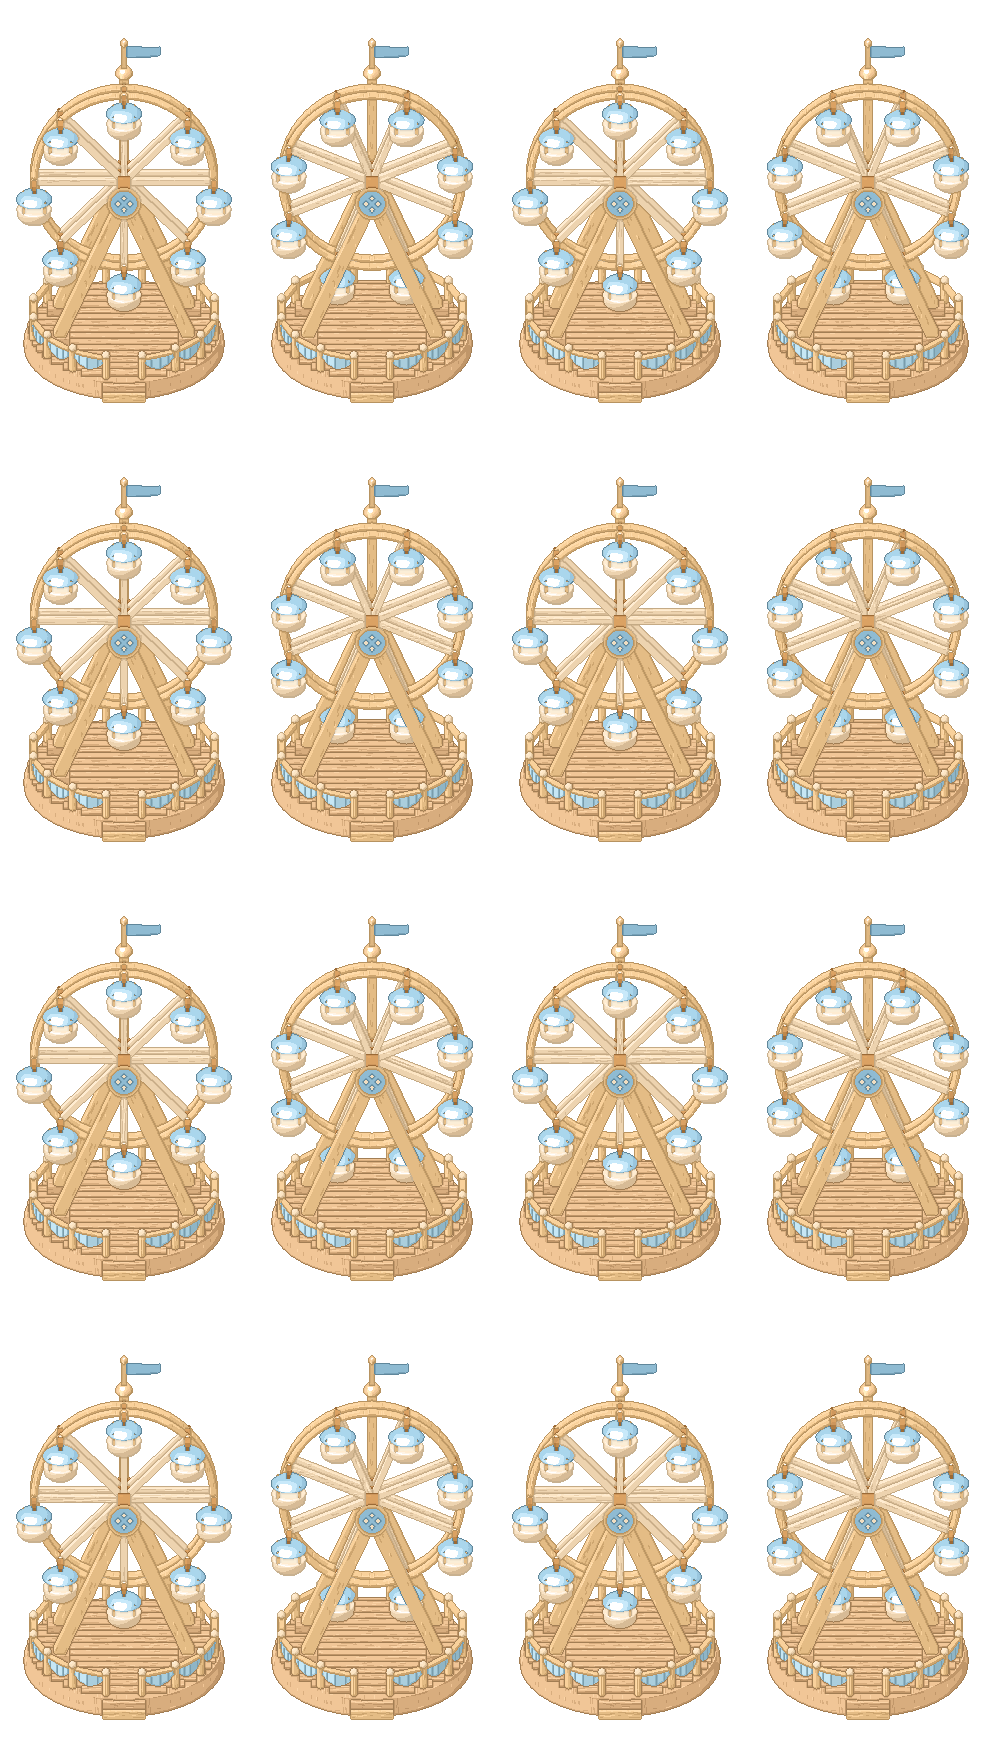
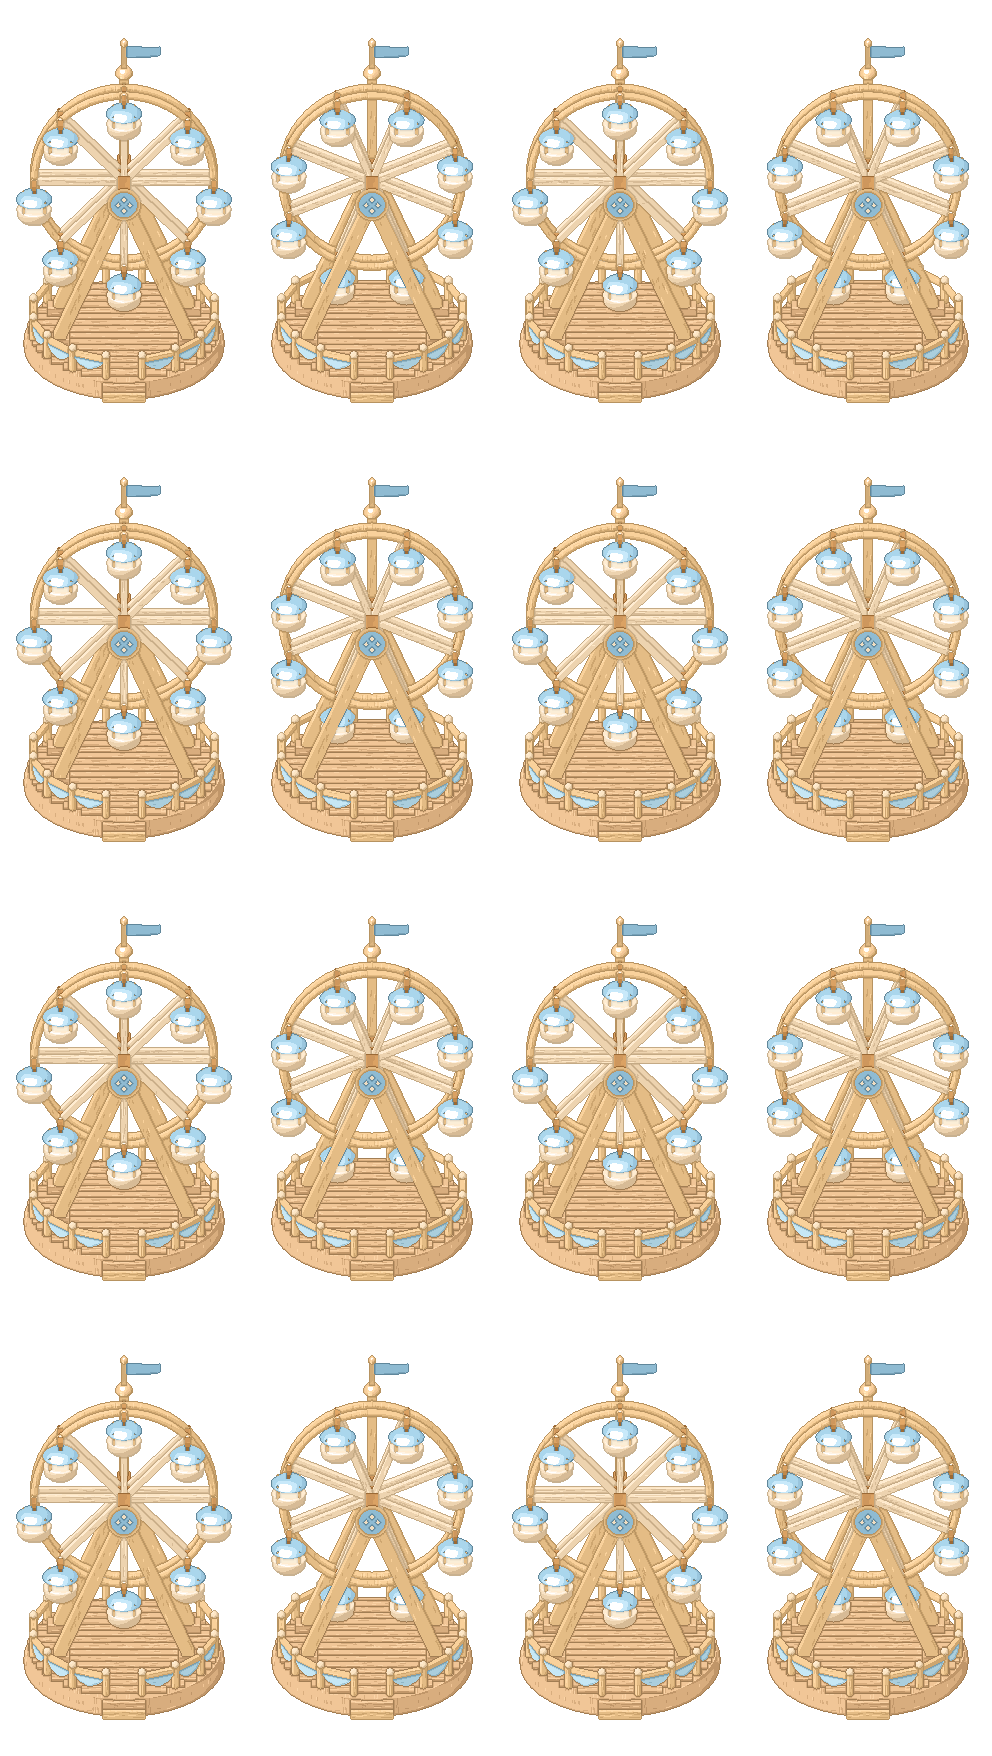
遊具の一枚の面と吊り部品のつなぎ方を直す

diff --git a/tools/art/handoff3d/rides.py b/tools/art/handoff3d/rides.py
@@ -60,12 +60,7 @@ def flag(m, x, y, z, broken):
          (x+u, y+.041*sin(u*10), z+.29+h+.085*u))
         for u, h in wave
     ]
-    # 一枚の布として輪郭と布目の単位を共有し、頂点で面の向きをまぜる。
-    m.material(BLUE, True, "cloth")
-    m.sc.part()
-    color = m.color(BLUE)
-    for (upper, lower), (next_upper, next_lower) in zip(edges, edges[1:]):
-        m.sc.quad(upper, next_upper, next_lower, lower, color)
+    m.strip(edges, BLUE, surface="cloth")
 
 
 def deck(m, radius, broken):
@@ -98,14 +93,14 @@ def deck(m, radius, broken):
         a1 = polar(radius-.048,b,z)
         m.rod(a0,a1,.034,HONEY,surface="wood")
         if sin((a+b)/2) > .08:
-            for j in range(4):
-                u,v = j/4,(j+1)/4
-                def edge(t, lower):
-                    p = a+(b-a)*t
-                    h = z if not lower else z-.025-.16*sin(t*tau/2)
-                    return polar(radius-.021,p,h)
-                board(m,(edge(u,False),edge(v,False),edge(v,True),edge(u,True)),
-                      BLUE_LIGHT,"cloth")
+            edges = []
+            for j in range(5):
+                t = j/4
+                angle = a+(b-a)*t
+                top = tuple((1-t)*u+t*v for u,v in zip(a0,a1))
+                bottom = polar(radius-.021,angle,z-.025-.16*sin(t*tau/2))
+                edges.append((top,bottom))
+            m.strip(edges,BLUE_LIGHT,surface="cloth")
 
 
 def sprig(m, origin, tangent, size):
@@ -136,30 +131,45 @@ def lantern(m, x, y, z):
 
 def canopy(m, radius, eaves, peak, lean, broken):
     """しまの屋根と、持ち送りの付いた波形の幕板。"""
-    for i in range(12):
+    panels = [i for i in range(12) if not broken or i not in (1,2)]
+    m.material(BLUE, True, "cloth")
+    m.sc.part()
+    for i in panels:
         a,b = i*tau/12,(i+1)*tau/12
-        if broken and i in (1,2):
-            continue
         edge = [polar(radius,t,eaves) for t in (a,b)]
-        top = (lean,0,peak)
         mid = [polar(radius*.48,t,peak-.25*(peak-eaves)) for t in (a,b)]
-        color = BLUE if i%2 else LINEN
-        m.part(color,surface="cloth")
-        m.sc.tri(top,*mid,m.color(color))
-        m.sc.quad(mid[0],mid[1],edge[1],edge[0],m.color(color))
+        paint = m.color(BLUE if i%2 else LINEN)
+        m.sc.tri((lean,0,peak),*mid,paint)
+        m.sc.quad(mid[0],edge[0],edge[1],mid[1],paint)
+    for i in panels:
+        a,b = i*tau/12,(i+1)*tau/12
         profile = ((0,.055),(.25,.118),(.5,.164),(.75,.118),(1,.055))
-        for (u,h),(v,k) in zip(profile,profile[1:]):
-            p,q = a+(b-a)*u,a+(b-a)*v
-            upper = polar(radius+.007,p,eaves+h),polar(radius+.007,q,eaves+k)
-            lower = polar(radius+.007,p,eaves-.17),polar(radius+.007,q,eaves-.17)
-            board(m,(*upper,*reversed(lower)),IVORY)
-            m.rod(*upper,.022,HONEY)
-            m.rod(*lower,.019,HONEY)
+        edges = [(polar(radius+.007,a+(b-a)*u,eaves+h),
+                  polar(radius+.007,a+(b-a)*u,eaves-.17))
+                 for u,h in profile]
+        m.strip(edges,IVORY)
+        upper, lower = zip(*edges)
+        m.bent_tube(upper,.022,HONEY,(0,0,1))
+        m.bent_tube(lower,.019,HONEY,(0,0,1))
         x,y,z = polar(radius+.009,a,eaves-.174)
         m.rod((x,y,z),(x,y,eaves+.074),.034,HONEY,surface="wood")
         bead(m,(x,y,eaves+.068),.043,LINEN)
         t=(a+b)/2
         sprig(m,polar(radius+.013,t,eaves-.114),(-sin(t),cos(t)),.25)
+
+
+def canopy_support(m, radius, height, center, broken):
+    """柱の上から腕木をのばし、吊り部品の輪を受ける。"""
+    angles = [i*tau/36 for i in (range(6,36) if broken else range(36))]
+    ring = [(center+x,y,z) for x,y,z in
+            (polar(radius,a,height) for a in angles)]
+    m.bent_tube(ring,.042,HONEY,(0,0,1),surface="wood",closed=not broken)
+    for i in range(6):
+        if broken and i == 1:
+            continue
+        x,y,z = polar(radius,i*tau/6,height)
+        m.rod((0,0,height+.06),(center+x,y,z),.039,OAK,surface="wood")
+    m.rod((0,0,height),(center,0,height+.25),.048,HONEY,surface="wood")
 
 
 def carousel(m, phase, broken, seats):
@@ -173,9 +183,14 @@ def carousel(m, phase, broken, seats):
         q = polar(.266,a,2.13)
         m.rod(p,q,.026,HONEY,surface="wood")
         sprig(m,polar(.274,a,1.15),(-sin(a),cos(a)),.32)
+    canopy_support(m,.94,2.10,0,False)
+    for i in range(6):
+        a = i*tau/6
+        m.rod(polar(.93,a,2.10),polar(1.30,a,2.078),.032,HONEY,surface="wood")
     canopy(m,1.31,2.11,2.97,lean,broken)
     flag(m,lean,0,2.97,broken)
     for a in (tau*.07,tau*.43):
+        m.rod(polar(1.31,a,1.962),polar(1.205,a,1.94),.023,HONEY)
         lantern(m,*polar(1.205,a,1.94))
     for i in range(3):
         a=phase+i*tau/3
@@ -209,28 +224,39 @@ def carousel(m, phase, broken, seats):
 
 def cafe_arch(m,broken):
     """奥の門形の枠。看板と小旗は水平線に沿って吊るす。"""
-    y=-.65
-    r=.97
+    y=-.72
+    r=1.04
     for side in (-1,1):
         x=r*side
         tip=(x-.07 if broken and side==1 else x,y,1.85)
         m.rod((x,y,.29),tip,.066,HONEY,surface="wood")
         bead(m,tip,.081,HONEY)
-        lantern(m,side*.75,y+.044,1.66)
+        lx = side*.75
+        arch_bottom = 1.66+.49*sqrt(1-(lx/r)**2)
+        m.rod((lx,y+.035,arch_bottom),(lx,y+.044,1.66),.016,BRASS)
+        lantern(m,lx,y+.044,1.66)
     frame=[(r*cos(i*tau/48),y,1.85+.49*sin(i*tau/48)) for i in range(25)]
-    for a,b in zip(frame,frame[1:]):
-        board(m,(a,b,(b[0],y,b[2]-.19),(a[0],y,a[2]-.19)),IVORY)
-    m.tube(frame,.057,HONEY,surface="wood")
-    m.tube([(x,y,z-.19) for x,_,z in frame],.048,HONEY,surface="wood")
+    lower = [(x,y,z-.19) for x,_,z in frame]
+    m.strip(list(zip(frame,lower)),IVORY)
+    m.bent_tube(frame,.057,HONEY,(0,1,0),surface="wood")
+    m.bent_tube(lower,.048,HONEY,(0,1,0),surface="wood")
     flag(m,0,y,2.34,broken)
     if not broken:
+        # 紐と旗は同じ点でつながる。三角の上辺は紐の傾きにそろえる。
+        def cord(t):
+            return (r-.03)*(2*t-1),y+.04,1.575+.282*(2*t-1)**2
+        tie_points = [0,1]
         for i in range(9):
-            x=-.78+i*.173
-            z=1.76+.23*(x/.85)**2
-            top=((x,y+.01,z),(x+.153,y+.01,z+.012))
-            color=BLUE if i%2 else LINEN
+            a,b = (i+.17)/9,(i+.83)/9
+            left,right = cord(a),cord(b)
+            tie_points.extend((a,b))
+            color = BLUE if i%2 else LINEN
             m.part(color,surface="cloth")
-            m.sc.tri(*top,(x+.074,y+.018,z-.15),m.color(color))
+            tip = ((left[0]+right[0])/2,y+.059,(left[2]+right[2])/2-.118)
+            m.sc.tri(left,right,tip,m.color(color))
+        m.bent_tube([cord(t) for t in sorted(tie_points)],.013,HONEY,(0,1,0))
+        for t in (0,1):
+            bead(m,cord(t),.032,BRASS,surface="polished")
     for radius, cy, color in ((.275,y+.012,HONEY),(.229,y+.025,LINEN)):
         m.part(color)
         for i in range(24):
@@ -271,7 +297,7 @@ def cups(m, phase, broken, seats):
             handle=[(x+cos(a)*(.268+.145*sin(tau*j/32)),
                      y+sin(a)*(.268+.145*sin(tau*j/32)),
                      low+.185+.118*cos(tau*j/32)) for j in range(17)]
-            m.tube(handle,.034,LINEN,surface="enamel")
+            m.bent_tube(handle,.034,LINEN,(-sin(a),cos(a),0),surface="enamel")
         for t in (a+tau/4,a+3*tau/4):
             dx,dy,_=polar(.293,t,0)
             sprig(m,(x+dx,y+dy,low+.124),(-sin(t),cos(t)),.17)
@@ -289,9 +315,18 @@ def swing(m, phase, broken, seats):
     for a in (0,tau/4,tau/2,3*tau/4):
         sprig(m,polar(.164,a,1.39),(-sin(a),cos(a)),.21)
         m.rod(polar(.295,a,.39),polar(.188,a,.68),.029,BLUE)
+    canopy_support(m,1.026,2.66,lean,broken)
+    for i in range(6):
+        a = i*tau/6
+        if broken and i == 1:
+            continue
+        x,y,z = polar(1.23,a,2.718)
+        m.rod(polar(.99,a,2.66),(x+lean,y,z),.035,HONEY,surface="wood")
     canopy(m,1.23,2.76,3.50,lean,broken)
     flag(m,lean,0,3.50,broken)
     for a in (tau*.09,tau*.40):
+        x,y,z = polar(1.026,a,2.66)
+        m.rod((x+lean,y,z),polar(.93,a,2.59),.018,BRASS)
         lantern(m,*polar(.93,a,2.59))
     for i in range(6):
         a=phase+i*tau/6
@@ -329,20 +364,21 @@ def wheel(m, phase, broken, seats):
     deck(m,1.49,broken)
     hub=(-.11 if broken else 0,-.19,2.64)
     for side in (-1,1):
-        for y in (-.48,.40):
+        for y in (-.48,.448):
             x=side*1.02
             m.box((x-.16,y-.11,.282),(x+.16,y+.115,.415),OAK,surface="wood")
             m.rod((x,y,.407),(hub[0],y,hub[2]),.087,HONEY,surface="wood")
-    m.rod((hub[0],-.57,hub[2]),(hub[0],.50,hub[2]),.10,BRASS,
+    m.rod((hub[0],-.72,hub[2]),(hub[0],.563,hub[2]),.10,BRASS,
           surface="polished")
     m.rod((hub[0],-.69,hub[2]),(hub[0],-.69,4.14),.065,HONEY,surface="wood")
     flag(m,hub[0],-.69,4.08,broken)
 
     def rim(a,y):
         return (hub[0]+1.405*cos(a),y,hub[2]-1.405*sin(a)+.125*cos(a)*broken)
-    angles=[tau*j/48 for j in (range(4,45) if broken else range(49))]
+    angles=[tau*j/48 for j in (range(4,45) if broken else range(48))]
     for y in (-.37,-.14):
-        m.tube([rim(a,y) for a in angles],.050,HONEY,surface="wood")
+        m.bent_tube([rim(a,y) for a in angles],.050,HONEY,(0,1,0),
+                    surface="wood",closed=not broken)
         for i in range(8):
             if broken and i==1:
                 continue
@@ -370,7 +406,7 @@ def wheel(m, phase, broken, seats):
                 BLUE,x,.061,surface="enamel")
         if i%2==0:
             seats.append((x,.073,z-.32))
-    for radius,y,color in ((.255,.519,HONEY),(.201,.533,BLUE)):
+    for radius,y,color in ((.255,.555,HONEY),(.201,.572,BLUE)):
         m.part(color)
         for i in range(32):
             a,b=i*tau/32,(i+1)*tau/32
@@ -379,7 +415,7 @@ def wheel(m, phase, broken, seats):
                      (x+radius*cos(b),y,z+radius*sin(b)),m.color(color))
     for j in range(4):
         a=j*tau/4
-        x,y,z=hub[0]+.092*cos(a),.54,hub[2]+.092*sin(a)
+        x,y,z=hub[0]+.092*cos(a),.58,hub[2]+.092*sin(a)
         board(m,((x-.034,y,z),(x,y,z+.041),(x+.034,y,z),(x,y,z-.041)),LINEN)
 
 

diff --git a/tools/art/handoff3d/render.py b/tools/art/handoff3d/render.py
@@ -89,6 +89,39 @@ class Model:
         self.material(color, False, surface)
         self.sc.tube(points, radius, self.color(color))
 
+    def strip(self, edges, color, *, surface=None, smooth=True):
+        """隣の面と辺を共有する、一枚の帯や布。"""
+        self.material(color, smooth, surface)
+        self.sc.part()
+        paint = self.color(color)
+        for (upper, lower), (next_upper, next_lower) in zip(edges, edges[1:]):
+            self.sc.quad(upper, next_upper, next_lower, lower, paint)
+
+    def bent_tube(self, points, radius, color, axis, *, surface=None, closed=False):
+        """断面を共有しながら曲がる、一続きの丸い材。"""
+        centers = np.asarray(points, float)
+        if closed:
+            tangent = np.roll(centers, -1, axis=0)-np.roll(centers, 1, axis=0)
+        else:
+            tangent = np.gradient(centers, axis=0)
+        tangent /= np.linalg.norm(tangent, axis=1, keepdims=True)
+        across = np.cross(tangent, axis)
+        across /= np.linalg.norm(across, axis=1, keepdims=True)
+        up = np.cross(tangent, across)
+        count = 8
+        rings = [[point+radius*(cos(i*tau/count)*u+sin(i*tau/count)*v)
+                  for i in range(count)]
+                 for point, u, v in zip(centers, across, up)]
+        if closed:
+            rings.append(rings[0])
+        self.material(color, True, surface)
+        self.sc.part()
+        paint = self.color(color)
+        for lower, upper in zip(rings, rings[1:]):
+            for i in range(count):
+                j = (i+1)%count
+                self.sc.quad(lower[i], upper[i], upper[j], lower[j], paint)
+
     def box(self, start, end, color, *, surface=None):
         self.material(color, False, surface)
         self.sc.box(*start, *end, self.color(color), bevel=0)

diff --git a/handoff/from-gpt.md b/handoff/from-gpt.md
@@ -7,13 +7,15 @@
 ### H-1 遊園地の遊具
 
 - 持ち主の見本に合わせ、明るい木、クリーム、淡い水色にそろえた。4種とも丸い板張りの台、手前の階段、柵、水色の布飾り、旗を組んだ。幕板や看板の青い葉模様も3Dの面に付けた。
+- 一枚の屋根布、幕板の面と縁、柵に掛けた布、カップのアーチを、途中に分割線が出ないようにつないだ。カップの持ち手と観覧車の輪も断面を共有する一続きの部品。柱や縁など、組み合わせた部品の境目は残した。
+- カップの9枚の三角旗は上の辺をたるんだ紐と共有させ、両端をアーチの柱に留めた。カップが柱に当たらないように奥行きと幅を調整した。回転木馬の支柱と空中ブランコのひもは屋根下の輪と腕木で受ける。ランタンは枠や輪から吊り、観覧車の旗竿は裏の軸までつないだ。
 - メリーゴーラウンドは波形の幕板、しまの屋根、鞍つきの馬3頭とランタン。空中ブランコは同じ屋根とランタン、2本のひもで吊った水色の椅子6席。旗は1枚の布として頂点を共有し、遊具のスムーズシェード境界は80度で写した。
 - コーヒーカップは青い釉薬の内側と受け皿を持つカップ3つ。奥にカップの看板と小旗、ランタンを吊るしたアーチを立てた。観覧車は木の二重の輪と、青い屋根・ガラス窓のゴンドラ8室。ゴンドラは輪が回っても座面が水平。
 - `*_static.png` が静止部分、`*_motion.png` が動きやかくれ方で変わる部分。16コマを左から右、上から下へ並べた。各コマを静止部分と重ね、`*_frames.png` と全ドットが一致することを確認した。
 - 足もとの基準は仮の絵と同じ。メリーゴーラウンド、コーヒーカップ、空中ブランコはゲームの点で `(32,56)`、観覧車は `(48,56)`。絵の取りつけ位置と全16コマの乗る位置は g64 のドットで [sprites.json](files/H-1/sprites.json) に記録した。
 - 絵の席数は見本に合わせた。乗る位置の数は今のゲームと同じで、メリーゴーラウンド3、コーヒーカップ2、空中ブランコ3、観覧車4。カップは手前から始まる2席、ブランコと観覧車は1つおきの席に合わせた。
 - カメラを29度にして、見本に近い正面寄りの見え方で写した。前後の描画順は、実際にせいれいを乗せるときに確認する。
-- 8まいを `chipcheck.py` で確認。25〜49色、半透明0。にた色0〜11組。輪郭が2ドット以上の所は59〜269、孤立ドットは259〜544。
+- 8まいを `chipcheck.py` で確認。26〜49色、半透明0。にた色0〜11組。輪郭が2ドット以上の所は63〜244、孤立ドットは216〜496。
 - [仮の絵との比較](files/H-1/cmp_x4.png) ・ [遊具の設計図](../tools/art/handoff3d/rides.py)
 
 ゲームのマップでの確認とチップへの登録は、絵の確認のあと。
